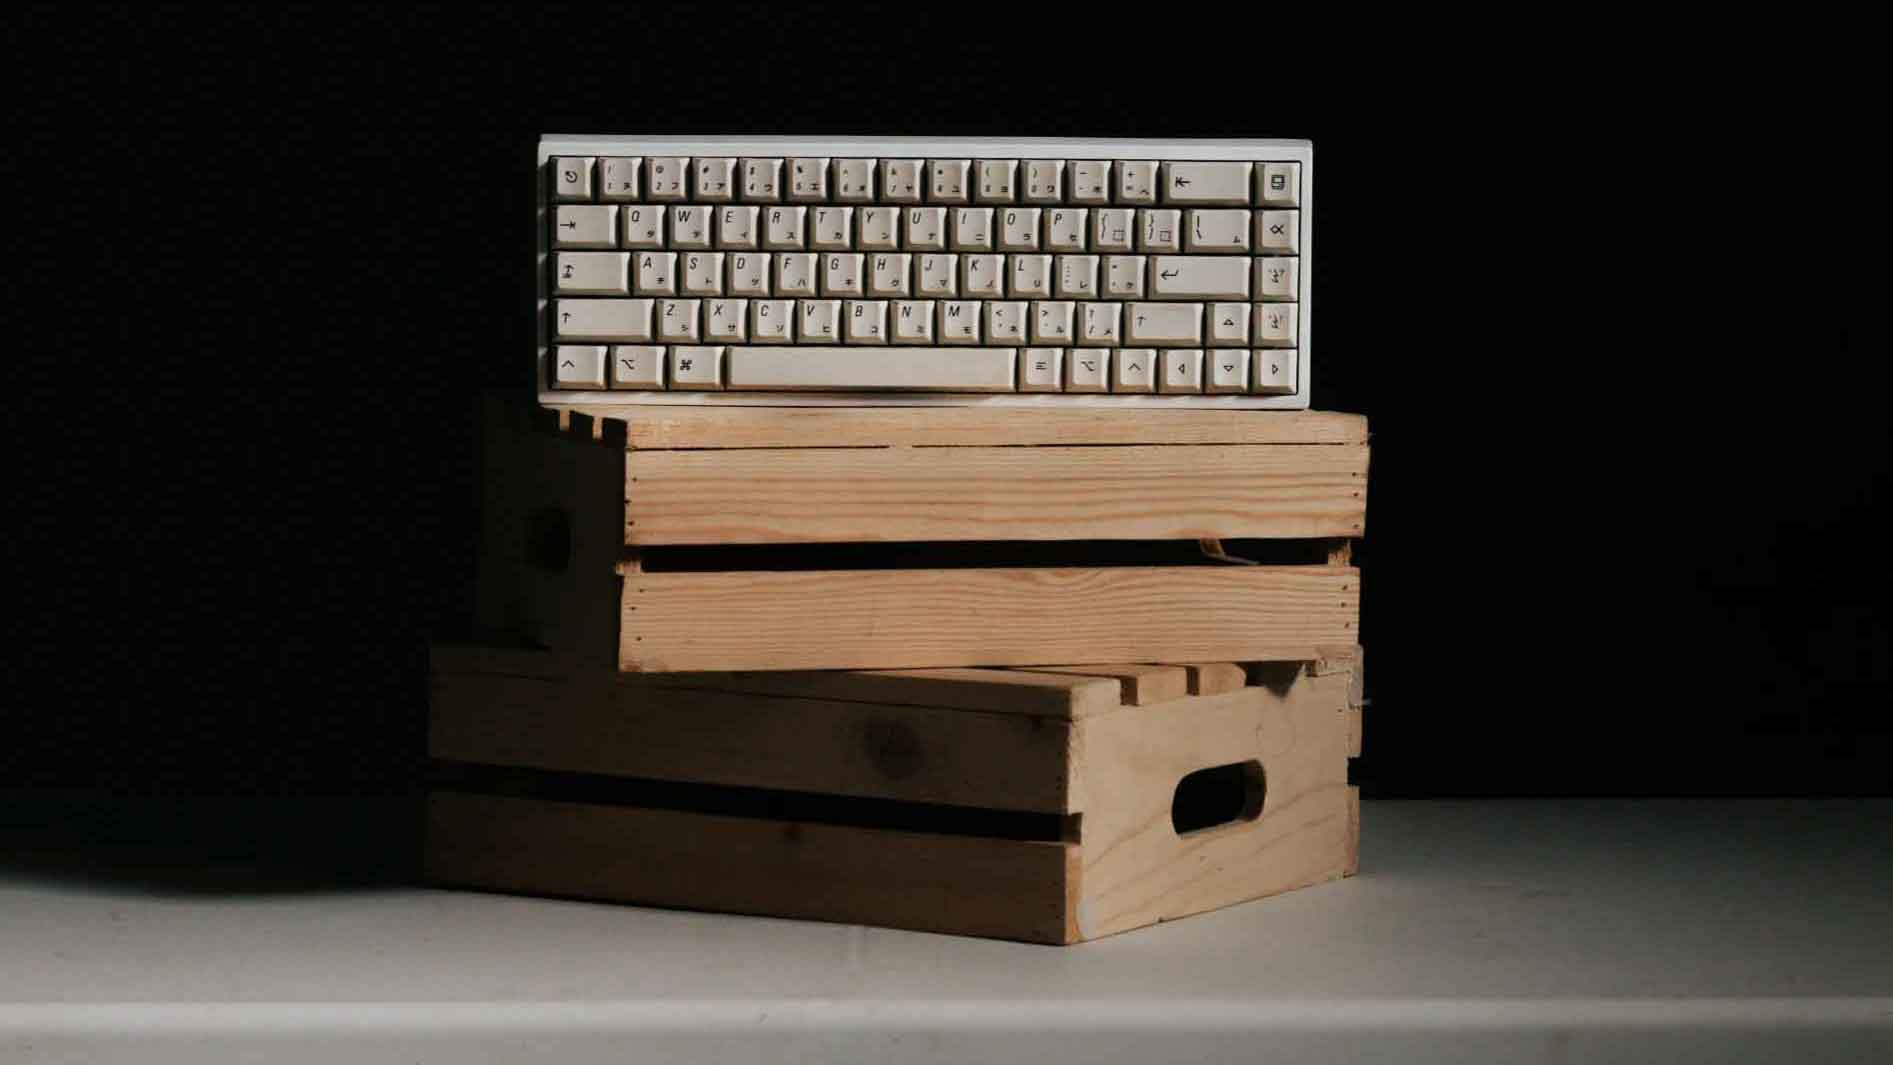
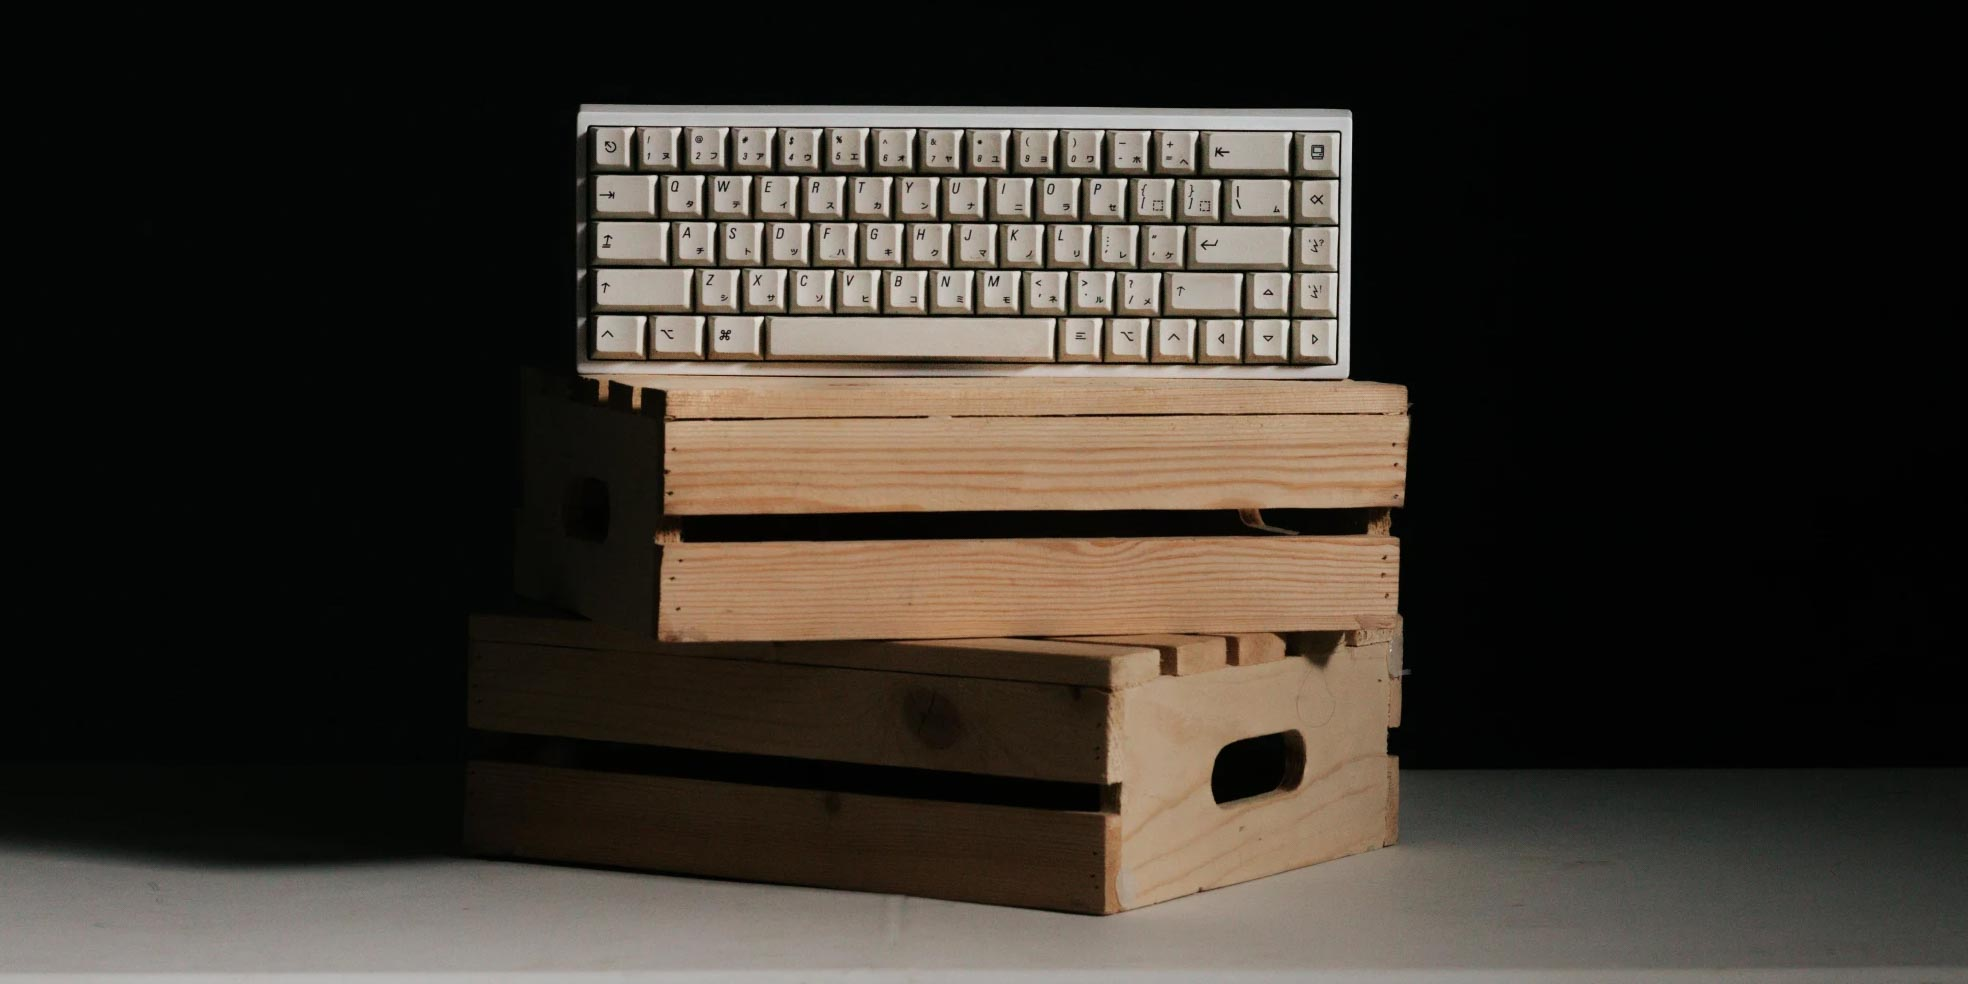
removed the slideshow for now, changing implementation, added sleek speed stylish as well as products and learn more, will add the div for products later

Changed region(s): [[0.0, 0.0915, 1.0, 1.0]]

diff --git a/style.css b/style.css
@@ -15,7 +15,7 @@ body {
     position: fixed; /* Set the navbar to fixed position */
     top: 0; /* Position the navbar at the top of the page */
     width: 100%; /* Full width */
-    z-index: 10;
+    z-index: 2;
 
     display: flex;
     justify-content: space-between;
@@ -66,72 +66,56 @@ body {
 
 .nav {font-family: 'Days One', sans-serif;}
 
-/* SLIDESHOW */
 
-* {box-sizing: border-box;}
-body {font-family: Verdana, sans-serif;}
-.mySlides {display: none;}
-img {vertical-align: middle;object-fit: cover;}
-
-
-
-/* Slideshow container */
-.slideshow-container {
-  z-index: 5;
-  width: 100%;
-  height: 200px;
-  position: relative;
-  margin: auto;
+.heroimage{
+    width: 100%;
 }
 
-/* Caption text */
-.text {
-  color: #f2f2f2;
-  font-size: 15px;
-  padding: 8px 12px;
-  position: absolute;
-  bottom: 8px;
-  width: 100%;
-  text-align: center;
+.herotext{
+    font-family: Days One;
+    left: 80px;
+    position: absolute;
+    bottom: 100px;
+
 }
 
-/* Number text (1/3 etc) */
-.numbertext {
-  color: #f2f2f2;
-  font-size: 12px;
-  padding: 8px 12px;
-  position: absolute;
-  top: 0;
+.hero{
+    position: relative;
+    text-align: center;
+    color: white;
 }
 
-/* The dots/bullets/indicators */
-.dot {
-  height: 15px;
-  width: 15px;
-  margin: 0 2px;
+.yellow-button {
+    padding-left: 40px;
+    padding-right: 40px;
+    padding-top: 0px;
+    padding-bottom: 0px;
+    position: absolute;
+    right: 100px;
+    bottom: 180px;
+    background-color: rgb(255, 221, 0);
+    border-radius: 10px;
+    box-shadow: 10px 10px 19px 0px rgba(255, 255, 255, 0.652);
+    -webkit-box-shadow: 10px 10px 19px 0px rgba(255, 255, 255, 0.652);
+    -moz-box-shadow: 10px 10px 19px 0px rgba(255, 255, 255, 0.652);
+    font-size: 16px;
+    cursor: pointer;
+  }
 
-  border-radius: 50%;
-  display: inline-block;
-  transition: background-color 2s ease;
-}
-
-.active {
-  background-color: #717171;
-}
-
-/* Fading animation */
-.fade {
-  animation-name: fade;
-  animation-duration: 1.5s;
-}
-
-@keyframes fade {
-  from {opacity: .4} 
-  to {opacity: 1}
-}
-
-/* On smaller screens, decrease text size */
-@media only screen and (max-width: 300px) {
-  .text {font-size: 11px}
-}
-/* SLIDESHOW END */
+  .transparent-button {
+    padding-left: 55px;
+    padding-right: 55px;
+    padding-top: 0px;
+    padding-bottom: 0px;
+    background-color: transparent;
+    color: yellow;
+    border: 2px solid yellow;
+    font-size: 16px;
+    cursor: pointer;
+    position: absolute;
+    right: 100px;
+    bottom: 100px;
+    border-radius: 10px;
+    font-size: 16px;
+    cursor: pointer;
+  }

diff --git a/index.html b/index.html
@@ -30,37 +30,14 @@
     </nav>
 
     <!-- SLIDESHOW -->
-    <div class="slideshow-container">
-
-        <div class="mySlides fade">
-          <div class="numbertext"></div>
-          <img src="Hero/tk68.jpg" style="width:100%">
-
-        </div>
-        
-        <div class="mySlides fade">
-          <div class="numbertext"></div>
-          <img src="Hero/z65.jpg" style="width:100%">
-
-        </div>
-        
-        <div class="mySlides fade">
-          <div class="numbertext"></div>
-          <img src="Hero/qk.jpg" style="width:100%">
-
-        </div>
-        
-        </div>
-        <br>
-        
-        <div style="text-align:center">
-          <span class="dot"></span> 
-          <span class="dot"></span> 
-          <span class="dot"></span> 
-        </div>
+    <!-- to be added back-->
     <!--SLIDESHOW END-->
-
-
+<div class="hero">
+    <img src="Hero/tk68.jpg" class="heroimage">
+    <h1 class="herotext"> SLEEK. SPEED. STYLISH. </h1>
+    <button class="yellow-button"><h3>VIEW PRODUCTS</h3></button>
+    <button class="transparent-button"><h3>LEARN MORE</h3></button>
+</div>
 
     <script src="script.js"></script>
 
